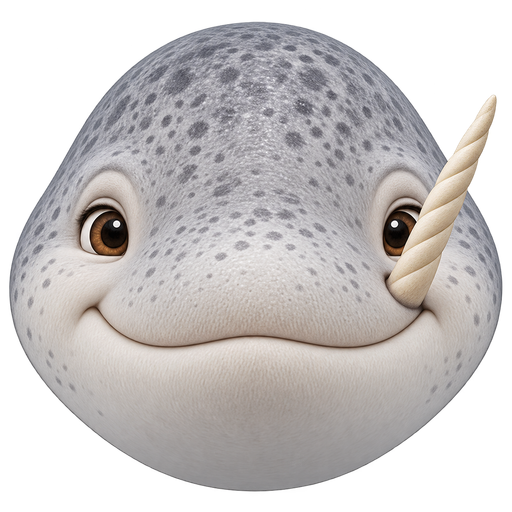
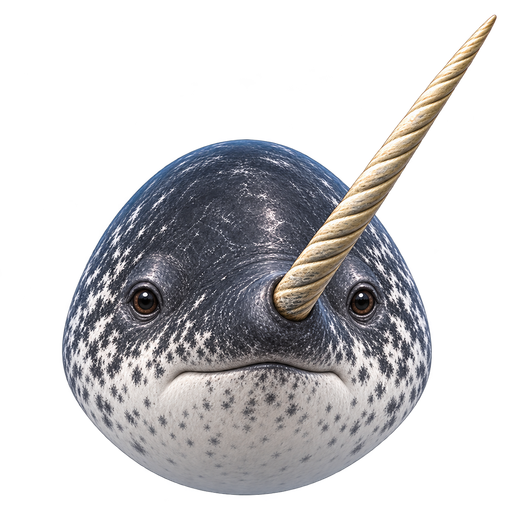
fix: keep game buttons visible and correct portrait likeness

diff --git a/src/pages/Game/Game.tsx b/src/pages/Game/Game.tsx
@@ -1,4 +1,4 @@
-import { CSSProperties, useMemo, useRef } from "react";
+import { CSSProperties, useLayoutEffect, useRef, useState } from "react";
 import GameHeader from "../../components/Game/Header/GameHeader.tsx";
 import "./Game.css";
 import GameGrid from "../../components/Game/Grid/Grid.tsx";
@@ -10,7 +10,7 @@ import GridAnimated from "../../components/Game/Grid/GridAnimated.tsx";
 import GridAnimated2 from "../../components/Game/Grid/GridAnimated2.tsx";
 import GridAnimated3 from "../../components/Game/Grid/GridAnimated3.tsx";
 import InGameActionButton from "../../components/Game/InGameActionButton/inGameActionButton.tsx";
-import { getBoard } from "../../helpers/board.ts";
+import { boardWithin, getBoard, type Board } from "../../helpers/board.ts";
 import type { LevelSpec } from "../../engine/types.ts";
 import Flashlight from "../../components/Flashlight/Flashlight.tsx";
 import { stepInfo } from "../../game/adventureRun.ts";
@@ -20,16 +20,16 @@ import Foliage from "../../components/Foliage/Foliage.tsx";
 import { PortraitReveal } from "../../components/PortraitReveal/PortraitReveal";
 import { CaptureCelebration } from "../../components/Game/CaptureCelebration/CaptureCelebration";
 
-const renderGrid = (spec: LevelSpec) => {
+const renderGrid = (spec: LevelSpec, board: Board) => {
   switch (spec.layout) {
     case "grid":
-      return <GameGrid spec={spec} key={spec.seed} />;
+      return <GameGrid spec={spec} board={board} key={spec.seed} />;
     case "scroll":
-      return <GridAnimated spec={spec} key={spec.seed} />;
+      return <GridAnimated spec={spec} board={board} key={spec.seed} />;
     case "pile":
-      return <GridAnimated2 spec={spec} key={spec.seed} />;
+      return <GridAnimated2 spec={spec} board={board} key={spec.seed} />;
     case "swarm":
-      return <GridAnimated3 spec={spec} key={spec.seed} />;
+      return <GridAnimated3 spec={spec} board={board} key={spec.seed} />;
   }
 };
 
@@ -47,7 +47,30 @@ const Game = () => {
         adventureStep: state.adventureStep,
       }))
     );
-  const board = useMemo(() => getBoard(), []);
+  const [board, setBoard] = useState(getBoard);
+  const boardSpaceRef = useRef<HTMLDivElement>(null);
+  useLayoutEffect(() => {
+    const space = boardSpaceRef.current;
+    if (!space) return;
+    const resize = (width: number, height: number) => {
+      if (width <= 0 || height <= 0) return;
+      const next = boardWithin(width, height);
+      setBoard(previous => previous.width === next.width && previous.height === next.height ? previous : next);
+    };
+    // Mesurer avant le premier affichage ; ResizeObserver suit ensuite le viewport,
+    // les traductions et les lignes ajoutées au score sans redémarrer le niveau.
+    const style = getComputedStyle(space);
+    resize(
+      space.clientWidth - parseFloat(style.paddingLeft) - parseFloat(style.paddingRight),
+      space.clientHeight - parseFloat(style.paddingTop) - parseFloat(style.paddingBottom),
+    );
+    const observer = new ResizeObserver(entries => {
+      const { width, height } = entries[0].contentRect;
+      resize(width, height);
+    });
+    observer.observe(space);
+    return () => observer.disconnect();
+  }, []);
   const unlock = useGameStore(state => state.unlockQueue[0]);
   const dismissUnlock = useGameStore(state => state.dismissUnlock);
   const boardRef = useRef<HTMLDivElement>(null);
@@ -72,28 +95,30 @@ const Game = () => {
       }
     >
       <GameHeader />
-      <div
-        ref={boardRef}
-        className={`boardWrap${hasFlashlight ? " boardWrap--flashlight" : ""}`}
-      >
-        {spec ? renderGrid(spec) : <div className="gridContainer" />}
-        {!isOver && <CaptureCelebration />}
-        {spec && hasFlashlight && (
-          <Flashlight
-            key={`flashlight-${spec.seed}`}
-            boardRef={boardRef}
-            width={board.width}
-            height={board.height}
-            scale={board.scale}
-            tier={tier}
-            // Chrono en pause pendant la carte de découverte : la pulsation attend
-            active={!loading && !pauseTimer}
-            hidden={wantedFound || isOver}
-          />
-        )}
-        <Seagulls boardRef={boardRef} />
-        {spec?.scene?.foliage && <Foliage key={`foliage-${spec.seed}`} boardRef={boardRef} spec={spec} />}
-        {mode === "adventure" && !isOver && <StepToast />}
+      <div ref={boardSpaceRef} className="boardSpace">
+        <div
+          ref={boardRef}
+          className={`boardWrap${hasFlashlight ? " boardWrap--flashlight" : ""}`}
+        >
+          {spec ? renderGrid(spec, board) : <div className="gridContainer" />}
+          {!isOver && <CaptureCelebration />}
+          {spec && hasFlashlight && (
+            <Flashlight
+              key={`flashlight-${spec.seed}`}
+              boardRef={boardRef}
+              width={board.width}
+              height={board.height}
+              scale={board.scale}
+              tier={tier}
+              // Chrono en pause pendant la carte de découverte : la pulsation attend
+              active={!loading && !pauseTimer}
+              hidden={wantedFound || isOver}
+            />
+          )}
+          <Seagulls boardRef={boardRef} />
+          {spec?.scene?.foliage && <Foliage key={`foliage-${spec.seed}`} boardRef={boardRef} spec={spec} />}
+          {mode === "adventure" && !isOver && <StepToast />}
+        </div>
       </div>
       <div className="gameActions">
         <InGameActionButton />

diff --git a/src/helpers/__tests__/board.test.ts b/src/helpers/__tests__/board.test.ts
@@ -1,9 +1,37 @@
 import { afterEach, describe, expect, it, vi } from "vitest";
-import { getBoard } from "../board";
+import { boardWithin, getBoard } from "../board";
 
 afterEach(() => vi.unstubAllGlobals());
 
 describe("plateau et zones sûres", () => {
+  it.each([[320, 740], [390, 844], [390, 700], [1280, 720]])(
+    "garde les commandes visibles en %i×%i avec les séries et les avis d'aventure",
+    (width, height) => {
+      const navigation = 56;
+      const headerWithStreaks = 178;
+      const actions = 70;
+      const gapsAndBoardPadding = 20;
+      const availableHeight = height - navigation - headerWithStreaks - actions - gapsAndBoardPadding;
+      const board = boardWithin(width - 8, availableHeight);
+      expect(board.height + navigation + headerWithStreaks + actions + gapsAndBoardPadding).toBeLessThanOrEqual(height);
+      expect(board.width).toBeLessThanOrEqual(Math.min(width - 8, 450));
+      expect(board.width / board.height).toBeCloseTo(390 / 520);
+    },
+  );
+
+  it("s'adapte à un en-tête plus haut et à un viewport réduit sans changer les coordonnées logiques", () => {
+    const initial = boardWithin(382, 520);
+    const resized = boardWithin(382, 376);
+    const withLongNameAndSafeArea = boardWithin(355, 250);
+    expect(resized.height).toBe(376);
+    expect(resized.scale).toBeLessThan(initial.scale);
+    expect(withLongNameAndSafeArea.height).toBe(250);
+    for (const board of [initial, resized, withLongNameAndSafeArea]) {
+      expect(board.width / board.scale).toBeCloseTo(390);
+      expect(board.height / board.scale).toBeCloseTo(520);
+    }
+  });
+
   it("réserve les insets CSS résolus sur les deux axes, avec un repli à zéro", () => {
     const root = {};
     const viewport = { innerWidth: 375, innerHeight: 667 };

diff --git a/src/components/Game/Grid/GridAnimated2.tsx b/src/components/Game/Grid/GridAnimated2.tsx
@@ -1,4 +1,4 @@
-import { useEffect, useMemo, useState } from "react";
+import { useEffect, useMemo } from "react";
 import { Stage, Container, Graphics } from "@pixi/react";
 import { FederatedPointerEvent } from "@pixi/events";
 import { useShallow } from "zustand/shallow";
@@ -8,7 +8,7 @@ import "@pixi/events";
 import { Rectangle } from "pixi.js";
 import { useCharacterInteraction } from "../../../hooks/useCharacterInteraction";
 import type { HitCandidate } from "../../../helpers/hitTest";
-import { getBoard } from "../../../helpers/board";
+import type { Board } from "../../../helpers/board";
 import type { LevelSpec } from "../../../engine/types";
 import { pickTap, targetName } from "./crowd";
 import { placePile } from "./layouts";
@@ -20,7 +20,7 @@ import { pileDebugZones } from "./pileVisibility";
 // Disposition "pile" : un tas de persos qui se chevauchent.
 // Placement en px logiques sur le plateau fixe 390×520 (placePile), rendu × board.scale.
 
-const GridAnimated2 = ({ spec }: { spec: LevelSpec }) => {
+const GridAnimated2 = ({ spec, board }: { spec: LevelSpec; board: Board }) => {
 
   const {
     canvasRef,
@@ -32,8 +32,7 @@ const GridAnimated2 = ({ spec }: { spec: LevelSpec }) => {
     handleCharacterClick,
   } = useCharacterInteraction();
 
-  // Monté avec key={spec.seed} : plateau et placement calculés une fois par niveau
-  const [board] = useState(getBoard);
+  // Monté avec key={spec.seed} : le placement logique reste figé durant le niveau.
   const releaseStage = useReleaseStage();
   const placedCharacters = useMemo(() => placePile(spec), [spec]);
 

diff --git a/src/components/Game/Grid/GridAnimated3.tsx b/src/components/Game/Grid/GridAnimated3.tsx
@@ -7,7 +7,7 @@ import "./Grid.css";
 import { Rectangle } from "pixi.js";
 import { useCharacterInteraction } from "../../../hooks/useCharacterInteraction";
 import { HIT_RADIUS_RATIO, HitCandidate } from "../../../helpers/hitTest";
-import { getBoard } from "../../../helpers/board";
+import type { Board } from "../../../helpers/board";
 import type { LayoutParams, LevelSpec } from "../../../engine/types";
 import { pickTap, targetName } from "./crowd";
 import { SwarmCharacter, areaOf, placeSwarm, stepSwarm } from "./layouts";
@@ -22,7 +22,7 @@ import { advanceMovementClock, createMovementClock, createSwarmMovement, suspend
 
 const DEFAULT_EDGE: NonNullable<LayoutParams["edgeBehavior"]> = "bounce";
 
-const GridAnimated3 = ({ spec }: { spec: LevelSpec }) => {
+const GridAnimated3 = ({ spec, board }: { spec: LevelSpec; board: Board }) => {
   const animationFrameRef = useRef<number | null>(null);
   const appActiveRef = useRef(isPageVisible());
   const movementClock = useRef(createMovementClock());
@@ -41,8 +41,7 @@ const GridAnimated3 = ({ spec }: { spec: LevelSpec }) => {
   const isCorrectSelectionRef = useRef(isCorrectSelection);
   isCorrectSelectionRef.current = isCorrectSelection;
 
-  // Monté avec key={spec.seed} : plateau et placement calculés une fois par niveau
-  const [board] = useState(getBoard);
+  // Monté avec key={spec.seed} : le placement logique reste figé durant le niveau.
   const releaseStage = useReleaseStage();
   const area = useMemo(() => areaOf(spec), [spec]);
   const edge = spec.params.edgeBehavior ?? DEFAULT_EDGE;

diff --git a/src/helpers/board.ts b/src/helpers/board.ts
@@ -5,15 +5,21 @@ import { BOARD } from "../engine/types";
 // Le rendu est ensuite mis à l'échelle uniformément (× scale) et centré.
 export type Board = { width: number; height: number; scale: number };
 
-const HEADER_AND_BUTTONS = 286; // navigation, avis avec nom sur deux lignes, espacements et boutons
+const HEADER_AND_BUTTONS = 286; // estimation initiale ; la partie mesure ensuite son espace réel
 const MAX_WIDTH = 450;
+
+// L'espace réservé au plateau par le layout, après l'en-tête, les commandes et les insets.
+// La géométrie logique reste fixe ; seul le rendu et les coordonnées de toucher changent.
+export function boardWithin(availableW: number, availableH: number): Board {
+  const width = Math.max(1, Math.min(availableW, MAX_WIDTH));
+  const height = Math.max(1, availableH);
+  const scale = Math.min(width / BOARD.w, height / BOARD.h);
+  return { width: BOARD.w * scale, height: BOARD.h * scale, scale };
+}
 
 // Fonction pure : plateau pour une fenêtre de viewW × viewH px CSS
 export function boardFor(viewW: number, viewH: number): Board {
-  const availW = Math.max(1, Math.min(viewW, MAX_WIDTH));
-  const availH = Math.max(1, viewH - HEADER_AND_BUTTONS);
-  const scale = Math.min(availW / BOARD.w, availH / BOARD.h);
-  return { width: BOARD.w * scale, height: BOARD.h * scale, scale };
+  return boardWithin(viewW, viewH - HEADER_AND_BUTTONS);
 }
 
 export function getBoard(): Board {

diff --git a/src/components/Game/Grid/GridAnimated.tsx b/src/components/Game/Grid/GridAnimated.tsx
@@ -6,7 +6,7 @@ import { useCharacterInteraction } from "../../../hooks/useCharacterInteraction"
 import { HitCandidate } from "../../../helpers/hitTest";
 import { FederatedPointerEvent } from "@pixi/events";
 import { Rectangle } from "pixi.js";
-import { getBoard } from "../../../helpers/board";
+import type { Board } from "../../../helpers/board";
 import type { LevelSpec } from "../../../engine/types";
 import { pickTap, targetName } from "./crowd";
 import { layoutScroll } from "./layouts";
@@ -20,8 +20,7 @@ import "./Grid.css";
 
 // Disposition "scroll" : des lignes (ou colonnes) qui défilent en boucle.
 // Placement et défilement en px logiques (layoutScroll), rendu × board.scale.
-const GridAnimated = ({ spec }: { spec: LevelSpec }) => {
-  const board = useMemo(() => getBoard(), []);
+const GridAnimated = ({ spec, board }: { spec: LevelSpec; board: Board }) => {
   const releaseStage = useReleaseStage();
   const animationFrameRef = useRef<number | null>(null);
   const appActiveRef = useRef(isPageVisible());

diff --git a/src/components/Game/Grid/Grid.tsx b/src/components/Game/Grid/Grid.tsx
@@ -7,7 +7,7 @@ import { useCharacterInteraction } from "../../../hooks/useCharacterInteraction"
 import { FederatedPointerEvent } from "@pixi/events";
 import { Rectangle } from "pixi.js";
 import { HitCandidate } from "../../../helpers/hitTest";
-import { getBoard } from "../../../helpers/board";
+import type { Board } from "../../../helpers/board";
 import type { LevelSpec } from "../../../engine/types";
 import { pickTap, targetName } from "./crowd";
 import { layoutGrid } from "./layouts";
@@ -16,8 +16,7 @@ import { CrowdSprite, FoundMarker } from "./CrowdSprite";
 import { useReleaseStage } from "./useReleaseStage";
 
 // Disposition "grid". Placement en px logiques (layoutGrid), rendu × board.scale.
-const GameGrid = ({ spec }: { spec: LevelSpec }) => {
-  const board = useMemo(() => getBoard(), []);
+const GameGrid = ({ spec, board }: { spec: LevelSpec; board: Board }) => {
   const releaseStage = useReleaseStage();
 
   const {

diff --git a/src/pages/Game/Game.css b/src/pages/Game/Game.css
@@ -19,10 +19,22 @@
 
 .gameActions {
   margin-top: auto;
+  flex: none;
   width: 100%;
   display: flex;
   justify-content: center;
-  padding: 4px 0 8px;
+  padding: 4px var(--safe-right, 0px) 8px var(--safe-left, 0px);
+}
+
+/* Le plateau reçoit uniquement l'espace restant : l'avis et les boutons ne rétrécissent pas. */
+.boardSpace {
+  width: 100%;
+  flex: 1 1 0;
+  min-height: 0;
+  display: grid;
+  justify-items: center;
+  align-content: start;
+  padding: 4px calc(4px + var(--safe-right, 0px)) 4px calc(4px + var(--safe-left, 0px));
 }
 
 .level {

diff --git a/src/content/accessories.ts b/src/content/accessories.ts
@@ -194,7 +194,7 @@ const ANIMAL_PROFILES: Readonly<Record<string, AnimalAccessoryProfile>> = {
   "ours-polaire": {"eyesY":0.43,"muzzleY":0.69},
   "renard-polaire": {"eyesY":0.55,"muzzleY":0.79,"hat":{"centerY":0.3,"scale":0.9}},
   "panthere-des-neiges": {"eyesY":0.44,"muzzleY":0.75},
-  "narval": {"eyesY":0.45,"muzzleY":0.66},
+  "narval": {"eyesY":0.585,"muzzleY":0.725,"hat":{"centerY":0.32,"scale":0.85}},
 };
 
 export function getAccessoryBox(accessory: Accessory, imageSrc: string, fitting?: AnimalAccessoryProfile): Accessory["box"] {
